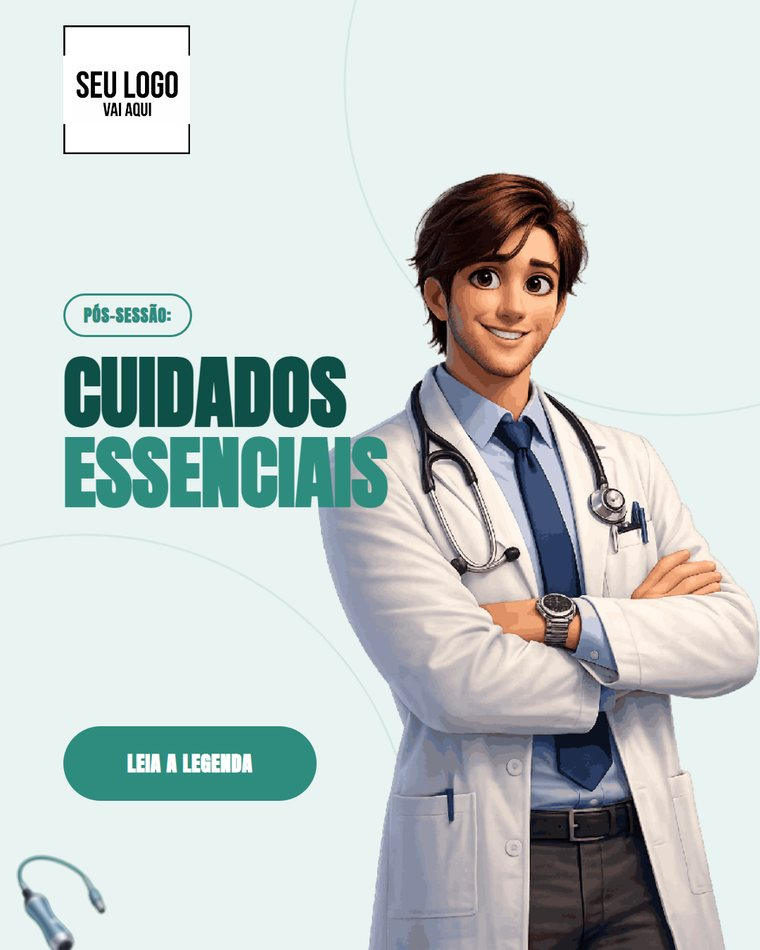
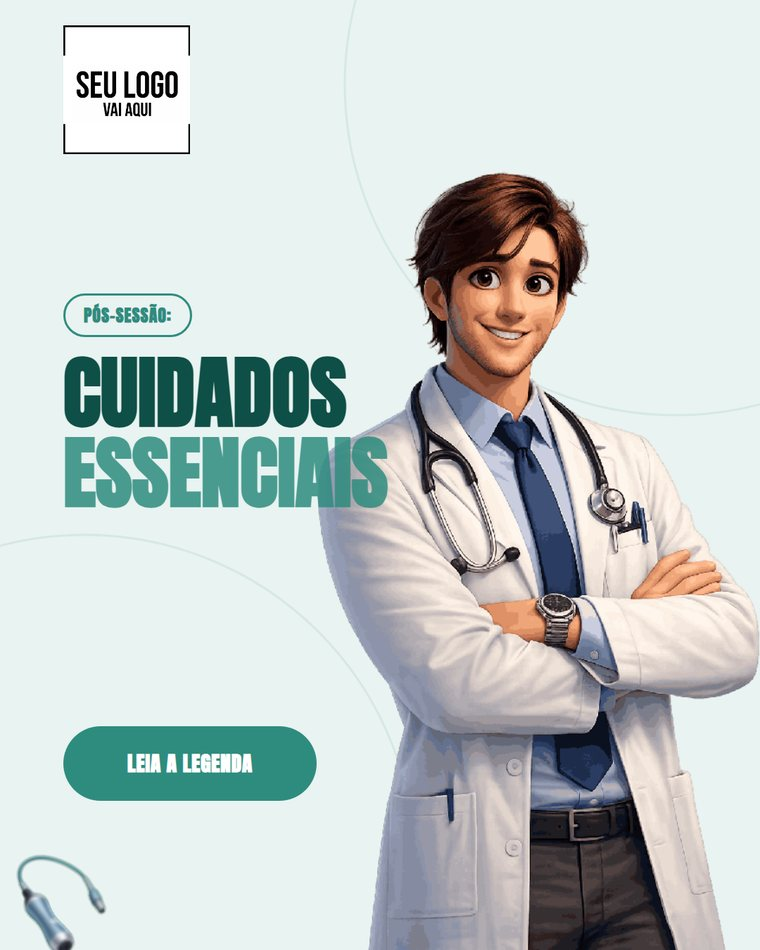
duo-tom vira uma cor em dois pesos (alpha), nao primary+secondary
O duo-tom da capa do clinical usava ink fixo na primeira palavra e accent na
segunda: se o cliente fosse roxo, sairia verde-escuro com roxo. Usar
secondary tambem nao resolve — na maioria dos tenants ela e uma cor bem
diferente da primary e o par sai desconexo.

Agora as duas palavras usam a MESMA variavel, a segunda com
data-variable-alpha="0.85" — a plataforma resolve com
TinyColor(primary).setAlpha(a), que ja e o caminho de setSolidPropertyValue.
Testei 0.55 (clareia demais), 0.7 (perde presenca) e 0.85, que e o mais
proximo da referencia.

Motor: o alpha do span nao propagava (so a variavel), entao o caractere saia
sempre com alpha 1. E o design-system ganhou os alphas usados, senao o
render local mostra chapado o que a plataforma vai produzir translucido.

Changed region(s): [[0.0605, 0.4579, 0.5145, 0.5495]]

diff --git a/engine/convert.js b/engine/convert.js
@@ -112,9 +112,11 @@ const rgb2hex = (c) => {
         if (n.nodeType === 3 && n.textContent) runs.push({ t: n.textContent.replace(/\\+n/g, "\n"), color: s.color });
         else if (n.nodeType === 1 && n.tagName === "BR") runs.push({ t: "\n", color: s.color });
         else if (n.nodeType === 1 && (n.tagName === "SPAN" || n.tagName === "B" || n.tagName === "EM")) {
-          // data-variable no span = palavra que se recolore com a marca (duo-tom)
+          // data-variable no span = palavra que se recolore com a marca (duo-tom);
+          // o alpha permite dois PESOS da mesma cor, em vez de duas cores
           runs.push({ t: (n.innerText || "").replace(/\\+n/g, "\n"), color: getComputedStyle(n).color,
-            variable: n.getAttribute("data-variable") || null });
+            variable: n.getAttribute("data-variable") || null,
+            alpha: parseFloat(n.getAttribute("data-variable-alpha") || "1") });
         } else if (n.nodeType === 1) {
           rejects.push({ id: el.getAttribute("data-el-id"), reason: `filho <${n.tagName.toLowerCase()}> dentro de componente de texto (só span/b/em/br)` });
         }
@@ -297,7 +299,8 @@ const rgb2hex = (c) => {
         if (runFill && runFill !== baseFill)
           (styles[line] ||= {})[col] = { fill: runFill,
             // span com data-variable: a palavra acompanha a marca do usuário
-            ...(run.variable ? { fillVariableConfig: { type: "solid", variable: run.variable, alpha: 1 } } : {}) };
+            ...(run.variable ? { fillVariableConfig: { type: "solid", variable: run.variable,
+              alpha: run.alpha == null ? 1 : run.alpha } } : {}) };
         text += ch; col++;
       }
     }

diff --git a/packs/clinical-photo-editorial/exemplos/ref-cta.html b/packs/clinical-photo-editorial/exemplos/ref-cta.html
@@ -21,8 +21,8 @@
           style="grid-area: 2 / 7 / 3 / 12">LEVE PARA A CONSULTA</span>
 
     <h2 class="ds-headline" data-el-id="f4" data-align="right" data-layer data-template-element
-        data-te-description="tese do fechamento" data-te-min-chars="8" data-te-max-chars="34"
-        style="grid-area: 3 / 4 / 6 / 12">PERGUNTE.<br><span data-tone="accent" data-variable="primary">ENTENDA.</span></h2>
+        data-te-description="tese do fechamento" data-te-min-chars="8" data-te-max-chars="34" data-variable="primary"
+        style="grid-area: 3 / 4 / 6 / 12">PERGUNTE.<br><span data-tone="accent" data-variable="primary" data-variable-alpha="0.85">ENTENDA.</span></h2>
 
     <p class="ds-body" data-el-id="f5" data-align="right" data-template-element
        data-te-description="apoio curto" data-te-min-chars="20" data-te-max-chars="110"

diff --git a/packs/clinical-photo-editorial/exemplos/ref-capa.html b/packs/clinical-photo-editorial/exemplos/ref-capa.html
@@ -31,8 +31,8 @@
 
     <!-- duo-tom: primeira palavra em ink, segunda em accent, uma sob a outra -->
     <h1 class="ds-headline" data-el-id="a6" data-size="lg" data-layer data-template-element
-        data-te-description="tese da capa" data-te-min-chars="8" data-te-max-chars="34"
-        style="grid-area: 5 / 2 / 9 / 12">CUIDADOS<br><span data-tone="accent" data-variable="primary">ESSENCIAIS</span></h1>
+        data-te-description="tese da capa" data-te-min-chars="8" data-te-max-chars="34" data-variable="primary"
+        style="grid-area: 5 / 2 / 9 / 12">CUIDADOS<br><span data-tone="accent" data-variable="primary" data-variable-alpha="0.85">ESSENCIAIS</span></h1>
 
     <a class="ds-cta" data-el-id="a7" data-variable="primary" data-template-element
        data-te-description="cta da capa" data-te-min-chars="6" data-te-max-chars="26"

diff --git a/engine/design-system.css b/engine/design-system.css
@@ -239,3 +239,13 @@ img[data-overhang="br"]     { transform: translate(28%, 30%) rotate(-12deg); }
 /* texto dentro de bloco de acento: usa a cor de contraste do bloco, nunca paper puro
    sobre fundo claro nem tom muted herdado */
 .ds-block .ds-body, .ds-block .ds-headline { color: inherit; }
+
+/* variação de PESO da mesma cor de marca: o render local precisa mostrar o que
+   a plataforma vai produzir (TinyColor(primary).setAlpha(a)). Sem isto o
+   duo-tom aparece chapado aqui e translúcido lá. */
+[data-variable-alpha="0.85"] { opacity: .85 }
+[data-variable-alpha="0.7"]  { opacity: .7 }
+[data-variable-alpha="0.55"] { opacity: .55 }
+[data-variable-alpha="0.4"]  { opacity: .4 }
+[data-variable-alpha="0.25"] { opacity: .25 }
+[data-variable-alpha="0.15"] { opacity: .15 }

diff --git a/engine/CATALOG.md b/engine/CATALOG.md
@@ -90,7 +90,7 @@ Modificadores globais: `data-tone` (ink/muted/accent/paper/accent-ink) ·
 | `data-static` | sem templateElement |
 | `data-text-type="instagramName\|instagramHandle\|phone\|address"` | `textType` (exclusivo com template-element) |
 | `data-image-type` | `imageType` (em `ds-slot` o default é o valor de `data-slot`) |
-| `data-variable="primary\|secondary"` (+ `data-variable-target="background"` na section) | `fillVariableConfig` / background variável. Vale em caixa, forma, texto E **em `<span>` dentro de texto** — o span vira `fillVariableConfig` por caractere no `styles`, que é como o duo-tom recolore com a marca |
+| `data-variable="primary\|secondary"` (+ `data-variable-target="background"` na section) | `fillVariableConfig` / background variável. Vale em caixa, forma, texto E **em `<span>` dentro de texto** — o span vira `fillVariableConfig` por caractere no `styles`, que é como o duo-tom recolore com a marca. `data-variable-alpha="0.85"` (também no span) dá um SEGUNDO PESO da mesma cor — é como se faz duo-tom sem depender de `secondary`, que na maioria dos tenants é uma cor bem diferente da primary |
 
 ## SVG — só geometria de composição, NUNCA imagem
 

diff --git a/knowledge/design/geral.md b/knowledge/design/geral.md
@@ -61,6 +61,12 @@ destacada do duo-tom** (`<span data-tone="accent" data-variable="primary">`, que
 vira `fillVariableConfig` por caractere). Acento cravado sem variável é defeito:
 a peça inteira deve se vestir da primary.
 
+**Duo-tom = uma cor, dois pesos.** Duas palavras em cores diferentes tendem a
+usar `primary` + `secondary`, mas na maioria dos tenants a secondary é uma cor
+bem diferente — o par sai desconexo. O caminho é a MESMA variável com
+`data-variable-alpha` no span (0.85 mantém presença; abaixo de 0.7 a segunda
+palavra perde peso contra o papel). Assim as duas palavras acompanham a marca.
+
 **O que NÃO se variabiliza**: `ink`, `paper`, `muted` e `wm` são a paleta
 estrutural do estilo (o papel menta do clinical, o cream do bold). Se
 recolorissem, o pack perderia identidade e viraria "qualquer pack na cor do
